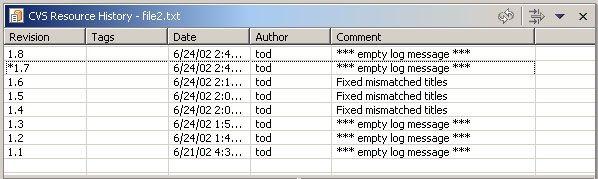
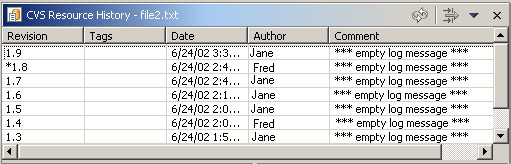
Updated screenshots

diff --git a/bundles/org.eclipse.platform.doc.user/gettingStarted/qs-64c_catch_sync2.htm b/bundles/org.eclipse.platform.doc.user/gettingStarted/qs-64c_catch_sync2.htm
@@ -73,7 +73,7 @@ about the change. To do this you first need to figure out who made the change
 and why.
 <p>In the Navigator select file2.txt and choose Team &gt; Show in Resource
 History from the context menu.</p>
-<p><img align="texttop" border="0" src="../images/Image84_reshist.jpg" alt="Resource History" width="598" height="179" ></p>
+<p><img align="texttop" border="0" src="../images/Image84_reshist.jpg" alt="Resource History" width="511" height="164" ></p>
 </TD>
 </TR>
 <TR>
@@ -85,9 +85,9 @@ History from the context menu.</p>
       in our Workbench. Looking at the right pane of the text compare viewer (above) 
       we can see the repository contains 1.8 of file2.txt.&nbsp; 
       <p>
-Looking at the history view again we can see that the author of 1.8 is tod.
-Looks like it's time to ask tod why he was changing file2.txt.&nbsp;</p>
-<p>If tod had entered a meaningful description when releasing his changes,
+Looking at the history view again we can see that the author of 1.8 is Fred.
+Looks like it's time to ask Fred why he was changing file2.txt.&nbsp;</p>
+<p>If Fred had entered a meaningful description when releasing his changes,
 these descriptions would have appeared in the comment field of the Resource
 History view thereby providing us with some insight into the intent of the change.
 </TD>
@@ -99,7 +99,7 @@ History view thereby providing us with some insight into the intent of the chang
     <TD valign="top" align="left"> You can use the four copy buttons to help you 
       merge in conflicting changes made to the repository. 
       <p>
-For now we will assume that tod's change turns out to be the right change.
+For now we will assume that Fred's change turns out to be the right change.
       <p>Select file2.txt and choose Override and Update from the context menu. 
         When asked to confirm the replacement choose Yes. 
       <p>&nbsp;</p>
